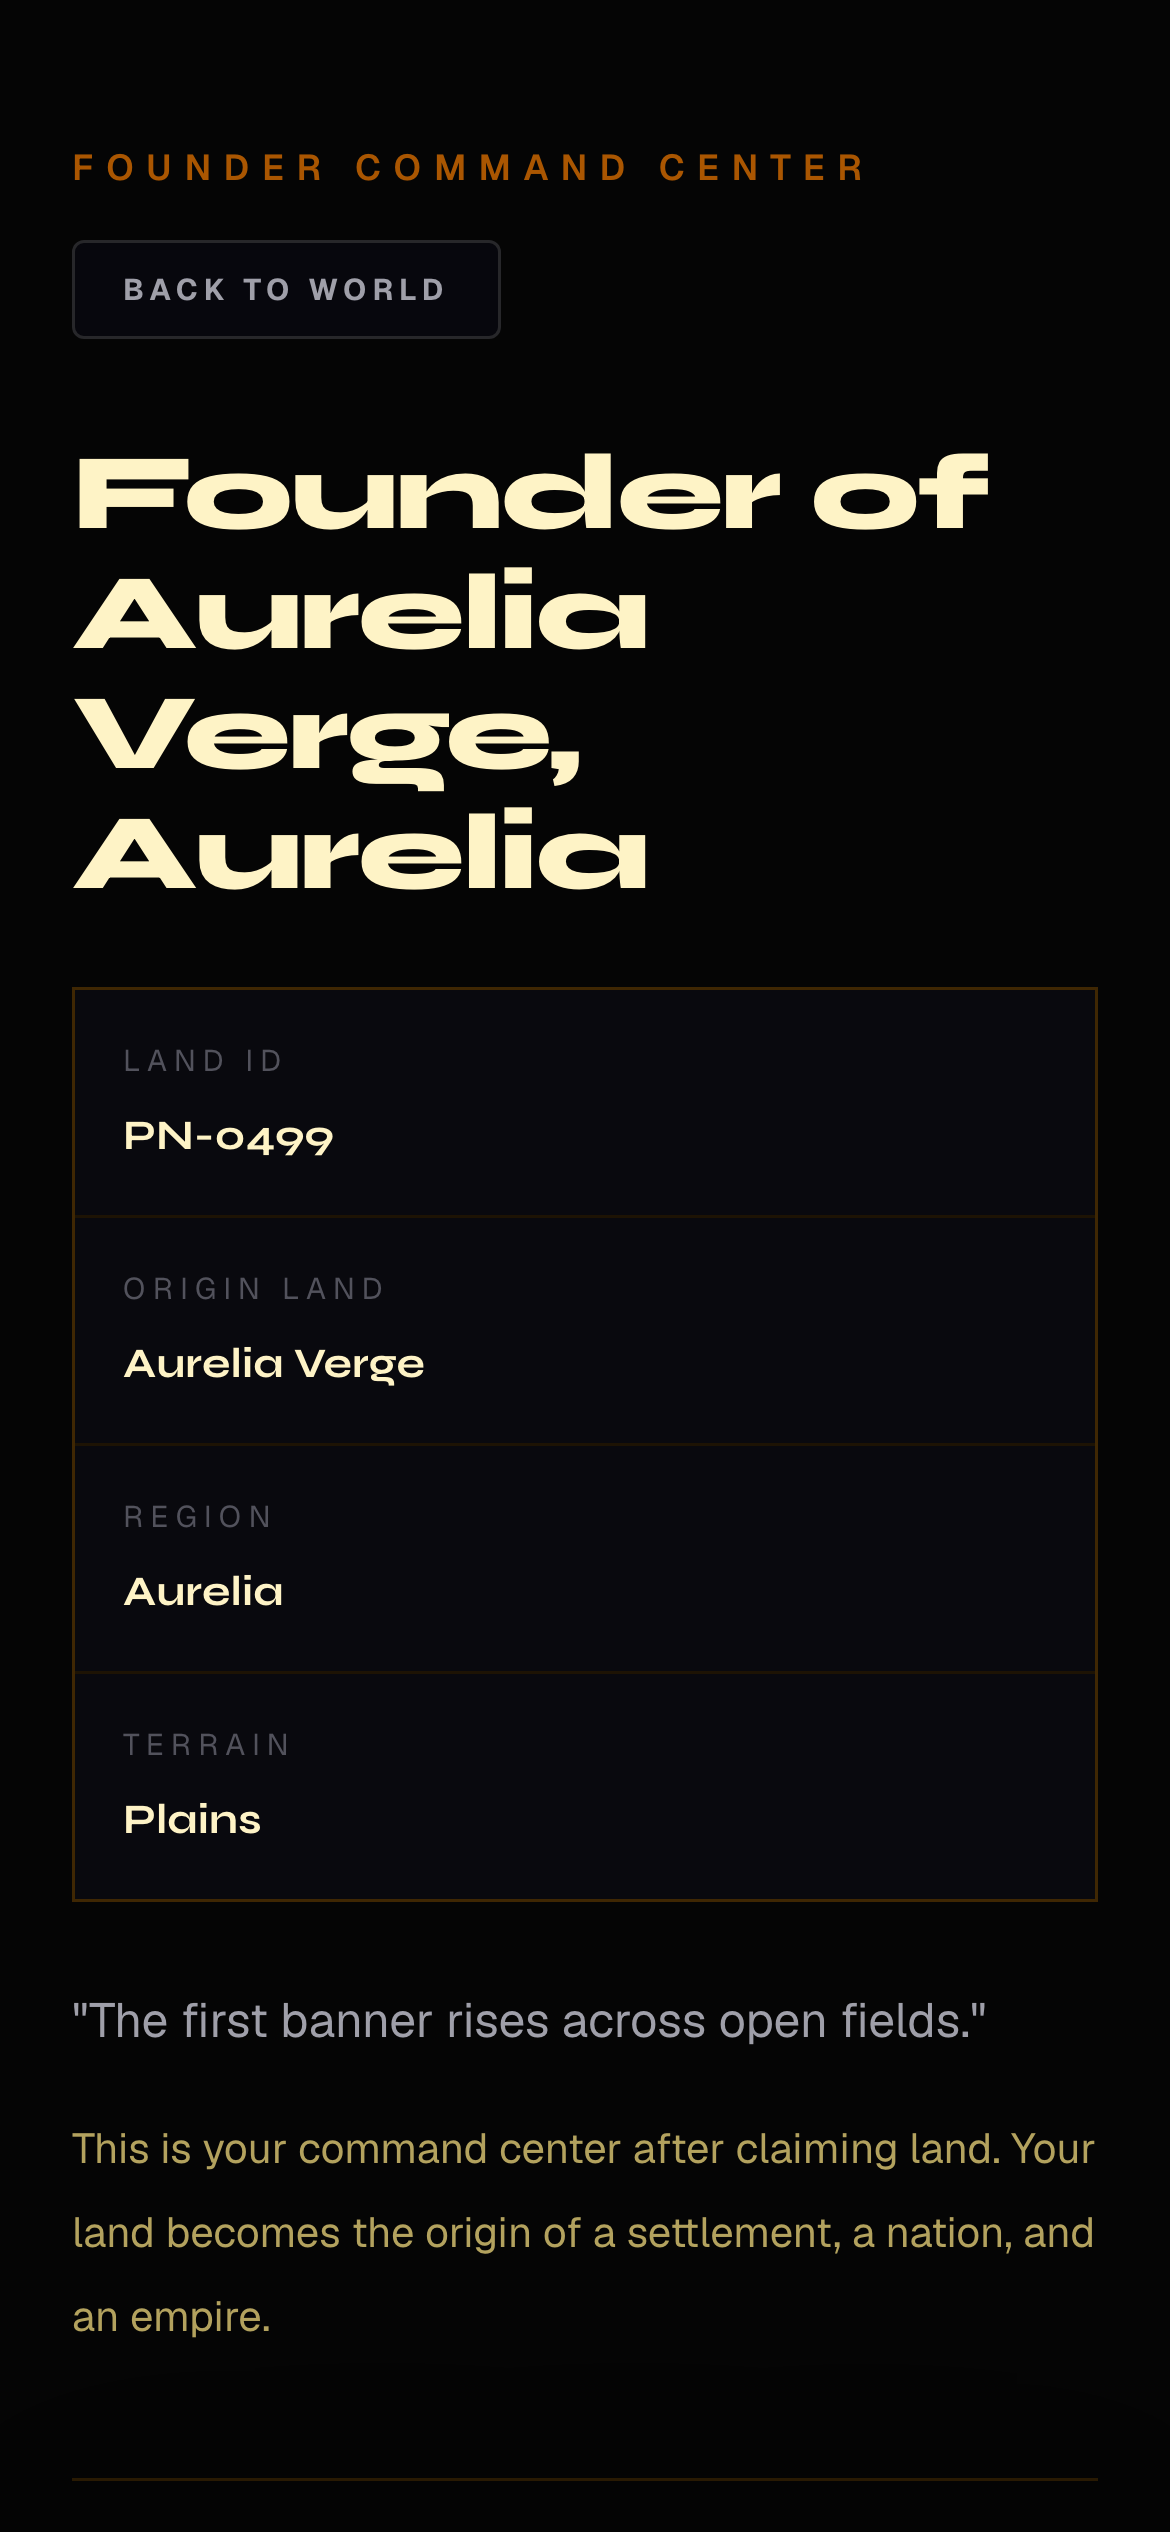
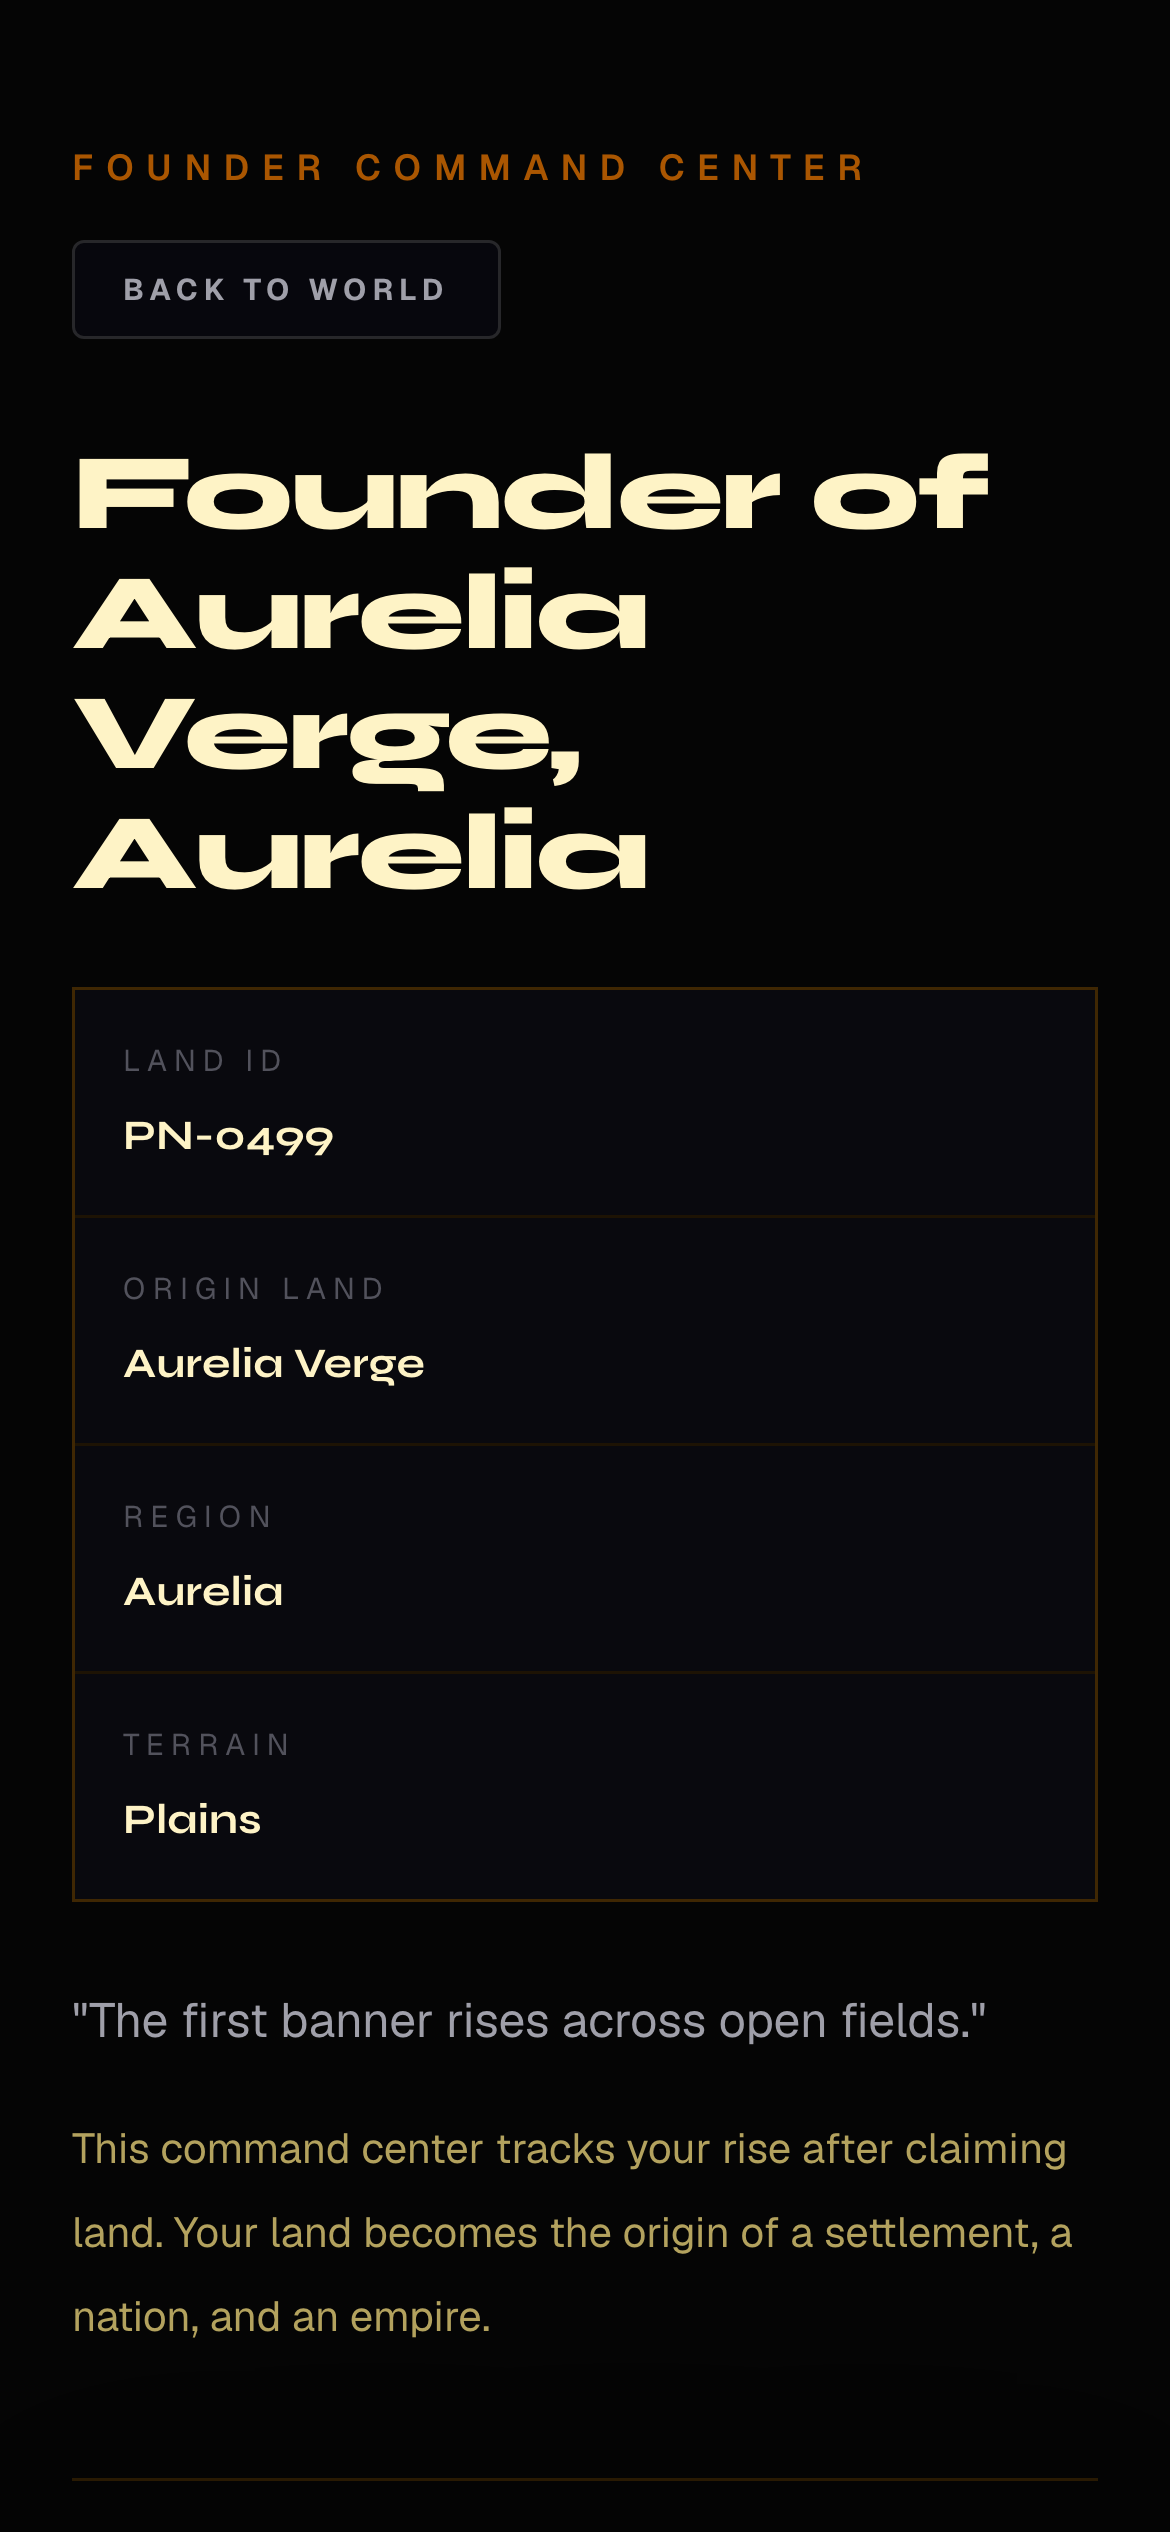
Polish production demo flow

Changed region(s): [[0.0615, 0.8424, 0.9231, 0.936]]

diff --git a/app/page.tsx b/app/page.tsx
@@ -10,52 +10,52 @@ const progression = [
   {
     step: "01",
     title: "Claim Land",
-    desc: "Choose your territory and plant the first banner.",
+    desc: "Choose one land and plant the first banner.",
   },
   {
     step: "02",
-    title: "Build Cities",
-    desc: "Turn claimed land into strongholds of power.",
+    title: "Found Settlement",
+    desc: "Turn claimed land into the first civic core.",
   },
   {
     step: "03",
-    title: "Create Nations",
-    desc: "Unite cities beneath one banner and one destiny.",
+    title: "Found Nation",
+    desc: "Raise a capital, a banner, and a political identity.",
   },
   {
     step: "04",
-    title: "Rule Empires",
-    desc: "Project power across the world and shape its future.",
+    title: "Declare Empire",
+    desc: "Complete the first rise from land to empire.",
   },
 ];
 
 const worldScale = [
   { id: "lands", value: "10,000", label: "Finite Lands" },
   { id: "world", value: "1", label: "Persistent World" },
-  { id: "territories", value: "100%", label: "Player-Owned Territory" },
-  { id: "nations", value: "∞", label: "Player-Created Nations" },
+  { id: "territories", value: "1", label: "First Playable Sector" },
+  { id: "nations", value: "4", label: "Demo Milestones" },
 ];
 
 const differentiators = [
   {
     id: "player-owned-land",
-    title: "Player-Owned Land",
-    desc: "Every land tile can be claimed, developed, traded or conquered.",
+    title: "One Land Matters",
+    desc: "Every claimed land can become the origin of a city, nation and empire.",
   },
   {
     id: "persistent-history",
-    title: "Persistent History",
-    desc: "Nothing resets. Victories, wars and alliances become permanent history.",
+    title: "Founder Record",
+    desc: "Claims, cities, nations and empires remain part of the demo history.",
   },
   {
     id: "nation-building",
-    title: "Nation Building",
-    desc: "Cities unite into nations. Nations grow into empires.",
+    title: "Nation To Empire",
+    desc: "The vertical slice follows one clear rise from city to nation to empire.",
   },
   {
     id: "emergent-politics",
-    title: "Emergent Politics",
-    desc: "Diplomacy, trade and conflict are driven by players, not scripted events.",
+    title: "Player-Made History",
+    desc: "There are no scripted kingdoms. The first founders define the age.",
   },
 ];
 
@@ -63,28 +63,28 @@ const empireJourney = [
   {
     step: "01",
     title: "Claim Land",
-    desc: "Buy your first tile and secure your place in the world.",
+    desc: "Claim your first land and secure your place in the world.",
     numberClass: "text-5xl sm:text-7xl",
     titleClass: "text-4xl sm:text-6xl md:text-7xl",
   },
   {
     step: "02",
     title: "Build City",
-    desc: "Develop infrastructure and attract settlers.",
+    desc: "Found the civic core that turns land into a city.",
     numberClass: "text-6xl sm:text-8xl",
     titleClass: "text-5xl sm:text-7xl md:text-8xl",
   },
   {
     step: "03",
     title: "Form Nation",
-    desc: "Join forces with other players and shape borders.",
+    desc: "Raise a capital and give your people one banner.",
     numberClass: "text-7xl sm:text-9xl",
     titleClass: "text-5xl sm:text-8xl md:text-9xl",
   },
   {
     step: "04",
     title: "Rule Empire",
-    desc: "Control trade, politics and the fate of continents.",
+    desc: "Complete the first demo arc and leave an imperial record.",
     numberClass: "text-7xl sm:text-9xl",
     titleClass: "text-5xl sm:text-8xl md:text-[8rem]",
   },
@@ -93,26 +93,26 @@ const empireJourney = [
 const playerWorldFeatures = [
   {
     id: "player-cities",
-    title: "Player Cities",
-    desc: "Cities are founded, expanded and managed by players.",
+    title: "Founder Cities",
+    desc: "Cities begin from claimed land and become the first centers of power.",
     className: "lg:col-span-7",
   },
   {
     id: "real-nations",
-    title: "Real Nations",
-    desc: "Nations emerge from alliances, diplomacy and conquest.",
+    title: "First Nations",
+    desc: "Nations emerge when a capital and its founders choose one banner.",
     className: "lg:col-span-5 lg:translate-y-16",
   },
   {
-    id: "living-economy",
-    title: "Living Economy",
-    desc: "Resources, trade routes and markets are shaped by players.",
+    id: "strategic-routes",
+    title: "Strategic Routes",
+    desc: "Routes and regional ties give the first city a reason to grow.",
     className: "lg:col-span-5",
   },
   {
-    id: "wars-politics",
-    title: "Wars & Politics",
-    desc: "Borders change through conflict, negotiation and power.",
+    id: "imperial-legacy",
+    title: "Imperial Legacy",
+    desc: "The first empire ends the opening arc and points to deeper play later.",
     className: "lg:col-span-7 lg:translate-y-12",
   },
   {
@@ -136,18 +136,18 @@ const onboardingSteps = [
   },
   {
     step: "03",
-    title: "Meet Players",
-    desc: "Trade, negotiate and form alliances.",
+    title: "Build Civic Core",
+    desc: "Raise the first seat of power.",
   },
   {
     step: "04",
-    title: "Join A Nation",
-    desc: "Shape borders and politics.",
+    title: "Found Nation",
+    desc: "Turn a city into a banner.",
   },
   {
     step: "05",
-    title: "Leave A Legacy",
-    desc: "Build something future players will remember.",
+    title: "Declare Empire",
+    desc: "Complete the first rise.",
   },
 ];
 
@@ -275,17 +275,16 @@ export default function Home() {
             </p>
 
             <h1 className="font-[family-name:var(--font-syne)] text-5xl font-extrabold leading-[0.95] tracking-tight text-white sm:text-6xl md:text-7xl lg:text-8xl">
-              The world begins
+              History begins
               <br />
               <span className="bg-gradient-to-b from-amber-100 via-amber-200/90 to-amber-600/70 bg-clip-text text-transparent">
-                with 10,000 lands.
+                with one land.
               </span>
             </h1>
 
             <p className="animate-fade-up animation-delay-200 mt-8 max-w-2xl text-base leading-8 text-zinc-500 sm:text-lg">
-              Every tile can have one owner. Every nation starts somewhere.
-              Claim your place before the map fills and the first histories are
-              written.
+              A finite world of 10,000 lands is opening. Claim your first land,
+              found a settlement, raise a nation and declare the first empire.
             </p>
 
             <div className="animate-fade-up animation-delay-400 mt-12 flex w-full flex-col gap-3 sm:w-auto sm:flex-row sm:gap-4">
@@ -294,7 +293,7 @@ export default function Home() {
                 onClick={handleStartDemo}
                 className="btn-primary w-full rounded border border-amber-500/60 bg-gradient-to-b from-amber-400/25 to-amber-800/15 px-10 py-4 text-sm font-bold uppercase tracking-widest text-amber-100 shadow-[0_0_48px_rgba(201,169,98,0.1)] sm:w-auto sm:px-12 sm:text-base"
               >
-                Start Demo
+                Claim Your First Land
               </button>
 
               <button
@@ -302,7 +301,7 @@ export default function Home() {
                 onClick={() => router.push("/world")}
                 className="btn-secondary w-full rounded border border-zinc-800 bg-[#08080f]/80 px-10 py-4 text-sm font-semibold uppercase tracking-widest text-zinc-400 sm:w-auto sm:px-12 sm:text-base"
               >
-                View the World
+                View First Sector
               </button>
             </div>
 
@@ -311,7 +310,7 @@ export default function Home() {
                 Playable MVP Demo
               </p>
               <p className="text-sm leading-6 text-zinc-500">
-                Claim land, found a city, build a nation and create the first empire.
+                The playable demo follows one rise: land to settlement to nation to empire.
               </p>
               {hasDemoProgress && demoProgressMessage ? (
                 <p className="text-xs uppercase tracking-[0.2em] text-amber-300/80">
@@ -495,9 +494,9 @@ export default function Home() {
             </h2>
 
             <p className="mx-auto mt-8 max-w-2xl text-base leading-8 text-zinc-500 sm:text-lg">
-              Pixel Nations is not a game you play and leave behind. Every land
-              is owned. Every nation is founded by a player. Every empire that
-              rises and falls becomes part of a record that never resets.
+              Pixel Nations begins with a simple promise: one land can become a city,
+              a nation, and an empire. The first demo arc records that rise without
+              pretending the whole world is finished.
             </p>
 
             <div className="mx-auto mt-20 grid max-w-4xl grid-cols-2 gap-x-8 gap-y-14 sm:gap-x-12 lg:grid-cols-4">
@@ -549,7 +548,7 @@ export default function Home() {
                 no resets. No new continents. No second worlds.
               </p>
               <p>
-                Early owners set the terms. Later arrivals negotiate with them.
+                Early founders set the record. Later arrivals inherit the world they shaped.
               </p>
             </div>
 
@@ -671,8 +670,8 @@ export default function Home() {
 
             <div className="mx-auto mt-18 max-w-2xl space-y-5 text-base leading-8 text-zinc-500 sm:text-lg">
               <p>The first explorers will claim the most valuable land.</p>
-              <p>Early cities will control trade routes.</p>
-              <p>New nations will define borders.</p>
+              <p>Early cities will become capitals.</p>
+              <p>New nations will raise the first banners.</p>
               <p>Rising empires will write history.</p>
             </div>
 
@@ -805,7 +804,7 @@ export default function Home() {
               </h2>
 
               <p className="mx-auto mt-8 max-w-2xl text-base leading-8 text-zinc-500 sm:text-lg">
-                The journey from explorer to empire starts with a single tile.
+                The journey from founder to empire starts with a single land.
               </p>
             </div>
 
@@ -894,7 +893,7 @@ export default function Home() {
                 onClick={handleStartDemo}
                 className="btn-primary w-full rounded border border-amber-500/65 bg-gradient-to-b from-amber-400/25 to-amber-800/15 px-12 py-4 text-sm font-bold uppercase tracking-widest text-amber-100 shadow-[0_0_60px_rgba(201,169,98,0.12)] sm:w-auto sm:text-base"
               >
-                Start Demo
+                Claim Your First Land
               </button>
 
               <button
@@ -902,7 +901,7 @@ export default function Home() {
                 onClick={() => router.push("/world")}
                 className="btn-secondary w-full rounded border border-zinc-800 bg-[#08080f]/80 px-12 py-4 text-sm font-semibold uppercase tracking-widest text-zinc-400 sm:w-auto sm:text-base"
               >
-                View The World
+                View First Sector
               </button>
             </div>
           </div>

diff --git a/app/dashboard/page.tsx b/app/dashboard/page.tsx
@@ -78,7 +78,7 @@ export default function DashboardPage() {
   const nextMilestone = settlementState.settlementFounded
     ? settlementState.empireFounded
       ? {
-          title: "Rule the World",
+          title: "First Demo Arc Complete",
           progress: "Empire Founded",
           cta: "View Empire",
           href: "/empire",
@@ -174,7 +174,7 @@ export default function DashboardPage() {
 
           <p className="mt-6 text-base leading-8 text-zinc-400 sm:text-lg">{originQuote}</p>
           <p className="mt-3 max-w-2xl text-sm leading-7 text-amber-200/70">
-            This is your command center after claiming land. Your land becomes the origin of a settlement, a nation, and an empire.
+            This command center tracks your rise after claiming land. Your land becomes the origin of a settlement, a nation, and an empire.
           </p>
         </header>
 

diff --git a/app/empire/create/page.tsx b/app/empire/create/page.tsx
@@ -187,7 +187,7 @@ export default function EmpireCreatePage() {
               <div className="mt-8 border-y border-amber-500/10 py-6">
                 <p className="text-xs font-semibold uppercase tracking-[0.28em] text-amber-600/75">Unlocked Benefits</p>
                 <ul className="mt-5 grid gap-3 text-sm text-zinc-300 sm:grid-cols-2">
-                  {["Empire Founder", "Imperial Capital", "World Legacy", "Expansion Mandate"].map((benefit) => (
+                  {["Empire Founder", "Imperial Capital", "World Legacy", "Opening Arc Complete"].map((benefit) => (
                     <li key={benefit} className="border-l border-amber-500/25 pl-4">
                       <span className="mr-2 text-amber-300">{"\u2713"}</span>
                       {benefit}

diff --git a/app/nation/page.tsx b/app/nation/page.tsx
@@ -161,7 +161,7 @@ export default function NationPage() {
             )}
             {!nation.empireFounded ? (
               <p className="mt-4 max-w-md text-xs uppercase tracking-[0.18em] text-zinc-600">
-                Border expansion remains a future layer. The demo can declare its first empire now.
+                Expansion remains a future layer. This demo can declare its first empire now.
               </p>
             ) : null}
           </motion.section>

diff --git a/app/nation/create/page.tsx b/app/nation/create/page.tsx
@@ -198,7 +198,7 @@ export default function NationCreatePage() {
                     "Nation Founder",
                     "Capital City",
                     "Regional Rule",
-                    "Diplomatic Sovereignty",
+                    "Sovereign Banner",
                   ].map((benefit) => (
                     <li key={benefit} className="border-l border-amber-500/25 pl-4">
                       <span className="mr-2 text-amber-300">{"\u2713"}</span>

diff --git a/public/qa/latest/report.html b/public/qa/latest/report.html
@@ -27,7 +27,7 @@
     <header>
       <p class="eyebrow">Pixel Nations QA Report</p>
       <h1>Pixel Nations QA Report</h1>
-      <p>Generated: <code>2026-06-15T22:43:59.968Z</code></p>
+      <p>Generated: <code>2026-06-16T16:16:10.495Z</code></p>
       <p>App source: <code>existing local app</code></p>
     </header>
 
